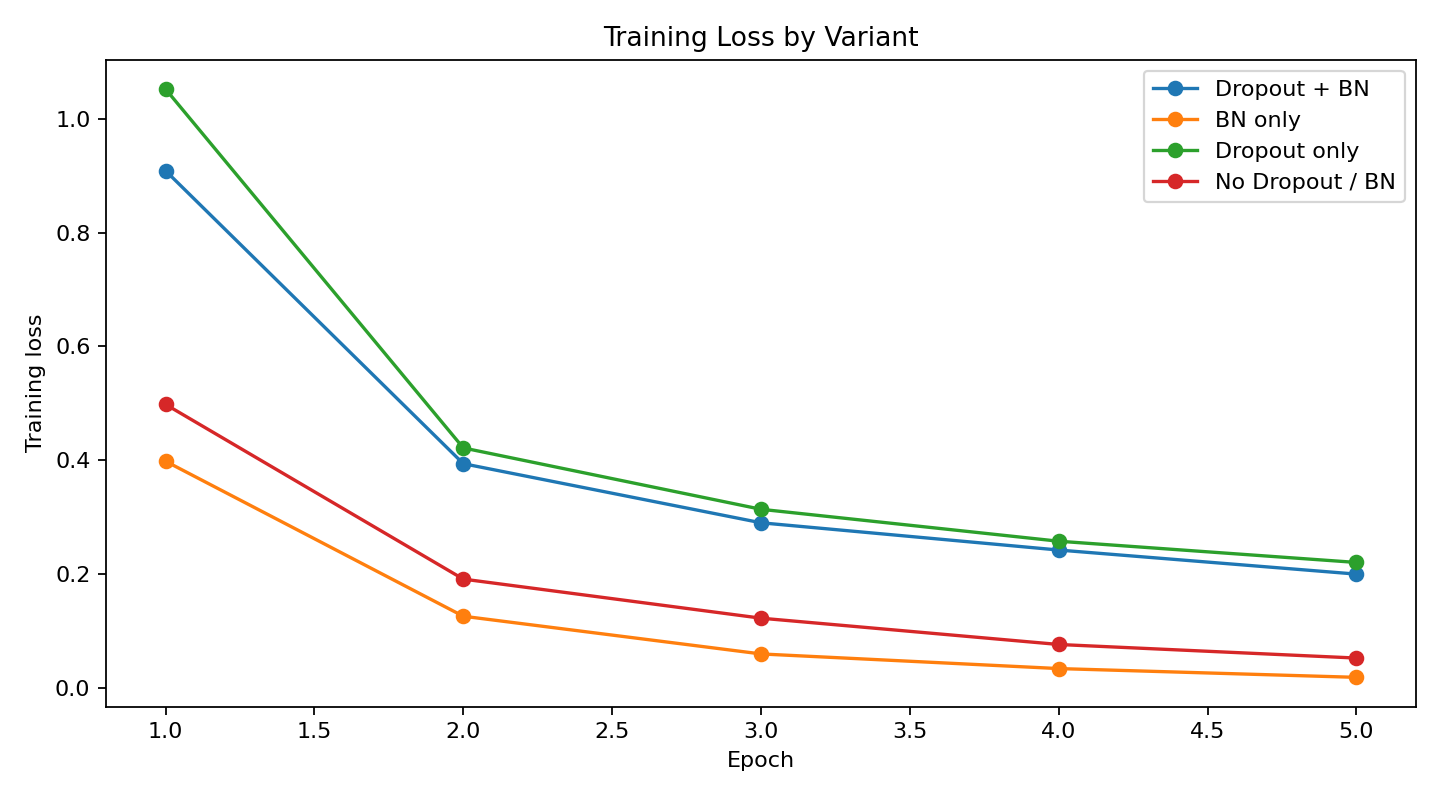
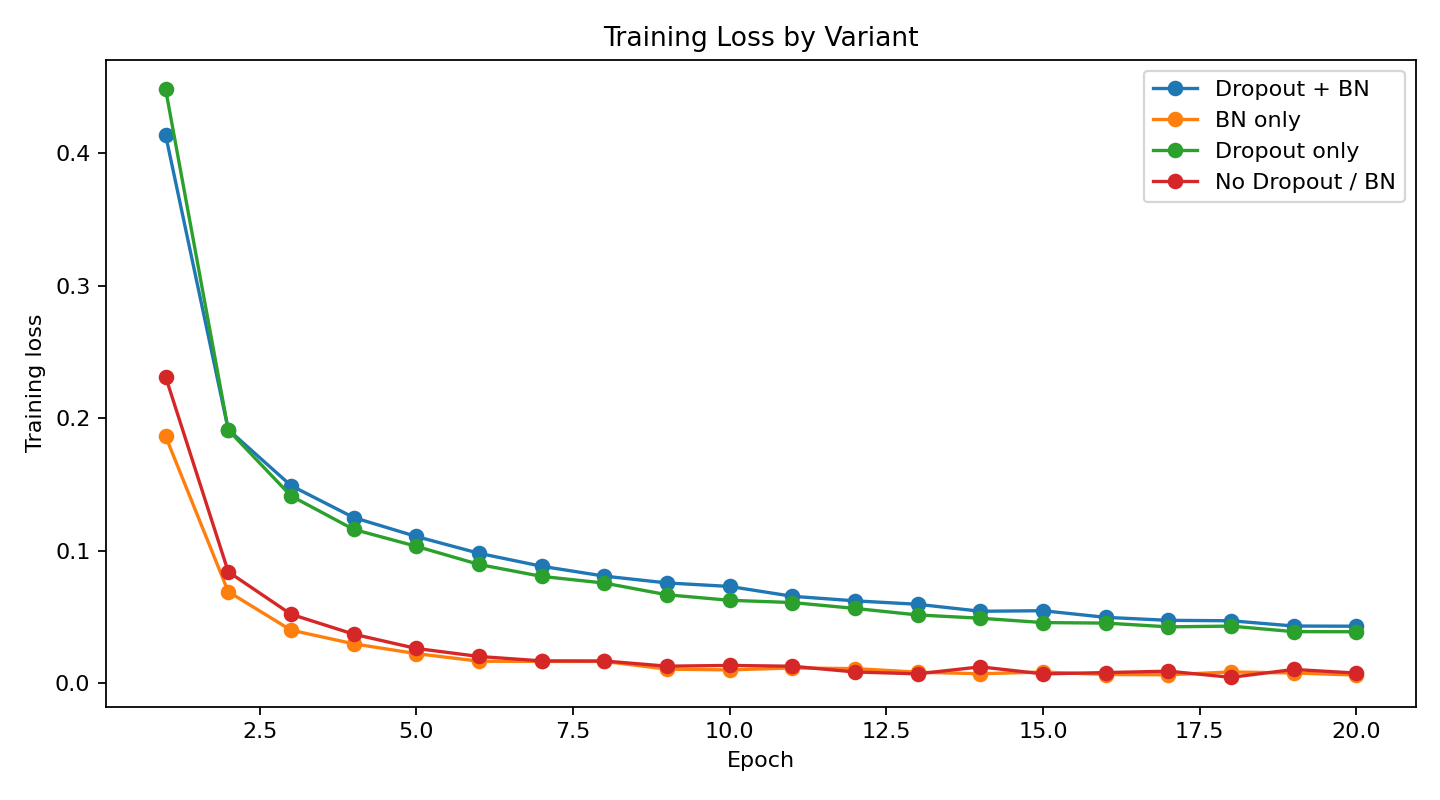
docs: update ablation report with full mnist run

diff --git a/analysis/dropout_batchnorm_ablation.py b/analysis/dropout_batchnorm_ablation.py
@@ -6,8 +6,7 @@ The script compares four model variants:
 - no_batchnorm: Dropout only
 - no_dropout_no_batchnorm: neither regularization layer
 
-Defaults intentionally use a subset so the experiment finishes quickly on CPU.
-Increase --train-size, --test-size, and --epochs for the final report run.
+Defaults use the full MNIST train/test split and 20 epochs for the report run.
 """
 
 from __future__ import annotations
@@ -52,10 +51,10 @@ VARIANTS = [
 
 def parse_args() -> argparse.Namespace:
     parser = argparse.ArgumentParser(description=__doc__)
-    parser.add_argument("--epochs", type=int, default=5)
+    parser.add_argument("--epochs", type=int, default=20)
     parser.add_argument("--batch-size", type=int, default=128)
-    parser.add_argument("--train-size", type=int, default=10_000)
-    parser.add_argument("--test-size", type=int, default=2_000)
+    parser.add_argument("--train-size", type=int, default=60_000)
+    parser.add_argument("--test-size", type=int, default=10_000)
     parser.add_argument("--lr", type=float, default=0.001)
     parser.add_argument("--dropout-ratio", type=float, default=0.5)
     parser.add_argument("--seed", type=int, default=42)
